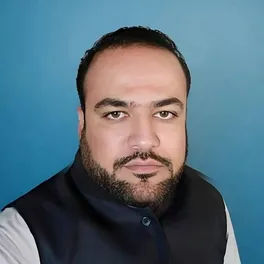
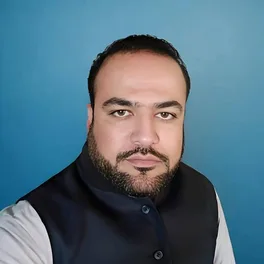
New full photos in circle: Shakeel (black waistcoat) and Najeeb Ullah
Claude-Session: https://claude.ai/code/session_01Dhab4Q1Y8XTnsEtMiLGx5M

diff --git a/index.html b/index.html
@@ -619,7 +619,7 @@ html[lang="ur"] .instc b{font:700 16px/2 var(--f-ur)}
 <nav class="tabs" id="tabs" aria-label="Sections"></nav>
 <a class="fab" href="https://wa.me/923146011672" target="_blank" rel="noopener" aria-label="WhatsApp 03146011672"><svg viewBox="0 0 24 24" fill="currentColor" aria-hidden="true"><path d="M12 2a10 10 0 0 0-8.6 15.1L2 22l5-1.3A10 10 0 1 0 12 2Zm0 18.2c-1.5 0-3-.4-4.3-1.2l-.3-.2-3 .8.8-2.9-.2-.3A8.2 8.2 0 1 1 12 20.2Zm4.5-6.1c-.2-.1-1.5-.7-1.7-.8-.2-.1-.4-.1-.6.1l-.8 1c-.1.2-.3.2-.5.1a6.7 6.7 0 0 1-3.3-2.9c-.2-.4.2-.4.7-1.3.1-.2 0-.3 0-.4l-.8-1.8c-.2-.5-.4-.4-.6-.4h-.5a1 1 0 0 0-.7.3 3 3 0 0 0-.9 2.2c0 1.3.9 2.5 1.1 2.7.1.2 1.8 2.8 4.4 3.9 1.6.7 2.3.8 3.1.6.5-.1 1.5-.6 1.7-1.2.2-.6.2-1.1.2-1.2-.1-.1-.3-.2-.5-.3Z"/></svg></a>
 
-<script src="tutors.js?v=31"></script>
+<script src="tutors.js?v=32"></script>
 <script>
 /* ===== Academy details: edit here. Items marked sample:true are placeholders until Shakeel sends the real details. ===== */
 const ACADEMY = {
@@ -1053,7 +1053,7 @@ function vHome() {
     <div class="offers">${[['layers','o1'],['notes','o2'],['tests','o3'],['about','o4'],['papers','o5'],['clock','o6']].map(([i, k]) => `<div class="card off lift"><span class="ic">${svg(i)}</span><div><h3>${t(k)}</h3><p>${t(k + 'p')}</p></div></div>`).join('')}<a class="card off lift owide" href="#need-tutor"><span class="ic">${svg('home')}</span><div><h3>${t('o7')}</h3><p>${t('o7p')}</p></div></a></div>
   </div></section>
   <section style="padding-top:0"><div class="wrap">
-    <div class="teach"><img src="assets/shakeel-hassan.webp" alt="Shakeel Hassan" width="132" height="132" loading="lazy" decoding="async">
+    <div class="teach"><img src="assets/shakeel-hassan.webp?v=2" alt="Shakeel Hassan" width="132" height="132" loading="lazy" decoding="async">
       <div><div class="kick">${t('teachTitle')}</div><h3 class="en-only" style="margin-top:4px">Shakeel Hassan</h3><p class="role en-only">SST Science · GHS MC Boys, Muslim Bazar Mianwali.</p><p style="margin:6px 0 0;color:var(--mut)">${t('teachP')}</p>
       <div class="cta"><a class="btn sm wa" href="https://wa.me/${ACADEMY.wa}" target="_blank" rel="noopener">${WA}03146011672</a><a class="btn sm line" href="#about">${t('about')}</a></div></div></div>
   </div></section>

diff --git a/tutors.js b/tutors.js
@@ -27,7 +27,7 @@ window.TUTORS = [
     experience: '19 years',           experienceUr: '19 سال',
     area: 'Dillewali',                areaUr: 'دلیوالی',
     modes: ['online', 'academy'],     platforms: '',
-    photo: 'assets/shakeel-hassan.webp'
+    photo: 'assets/shakeel-hassan.webp?v=2'
   },
   {
     name: 'Najeeb Ullah',             nameUr: 'نجیب اللہ',
@@ -38,7 +38,7 @@ window.TUTORS = [
     experience: 'More than 5 years',  experienceUr: '5 سال سے زیادہ',
     area: 'Dillewali',                areaUr: 'دلیوالی',
     modes: ['online', 'academy'],     platforms: '',
-    photo: 'assets/tutors/najeeb-ullah.webp'
+    photo: 'assets/tutors/najeeb-ullah.webp?v=2'
   },
   {
     name: 'Humaira Hayat',            nameUr: 'حمیرا حیات',

diff --git a/sw.js b/sw.js
@@ -1,6 +1,6 @@
 // AHSA offline cache: always NETWORK-FIRST with HTTP-cache revalidation (no stale pages);
 // the cache is used only when the phone is offline. Bump C on every change.
-const C = 'ahsa-v34';
+const C = 'ahsa-v35';
 self.addEventListener('install', e => { e.waitUntil(caches.open(C).then(c => c.addAll(['./', 'index.html', 'assets/logo.webp', 'assets/logo-96.webp', 'pool.js?v=1', 'manifest.webmanifest']).catch(() => {}))); self.skipWaiting(); });
 self.addEventListener('activate', e => { e.waitUntil(caches.keys().then(ks => Promise.all(ks.filter(k => k !== C).map(k => caches.delete(k)))).then(() => self.clients.claim())); });
 self.addEventListener('fetch', e => {
